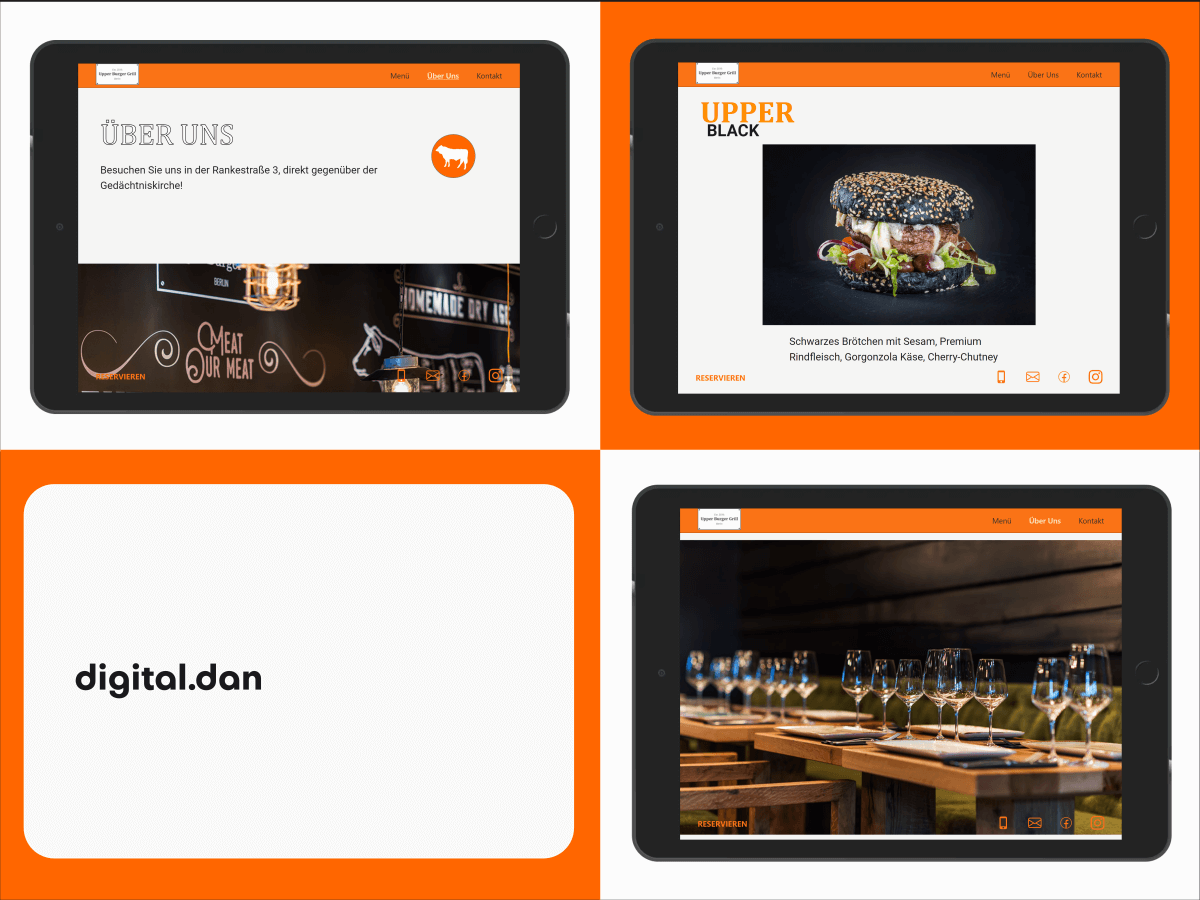
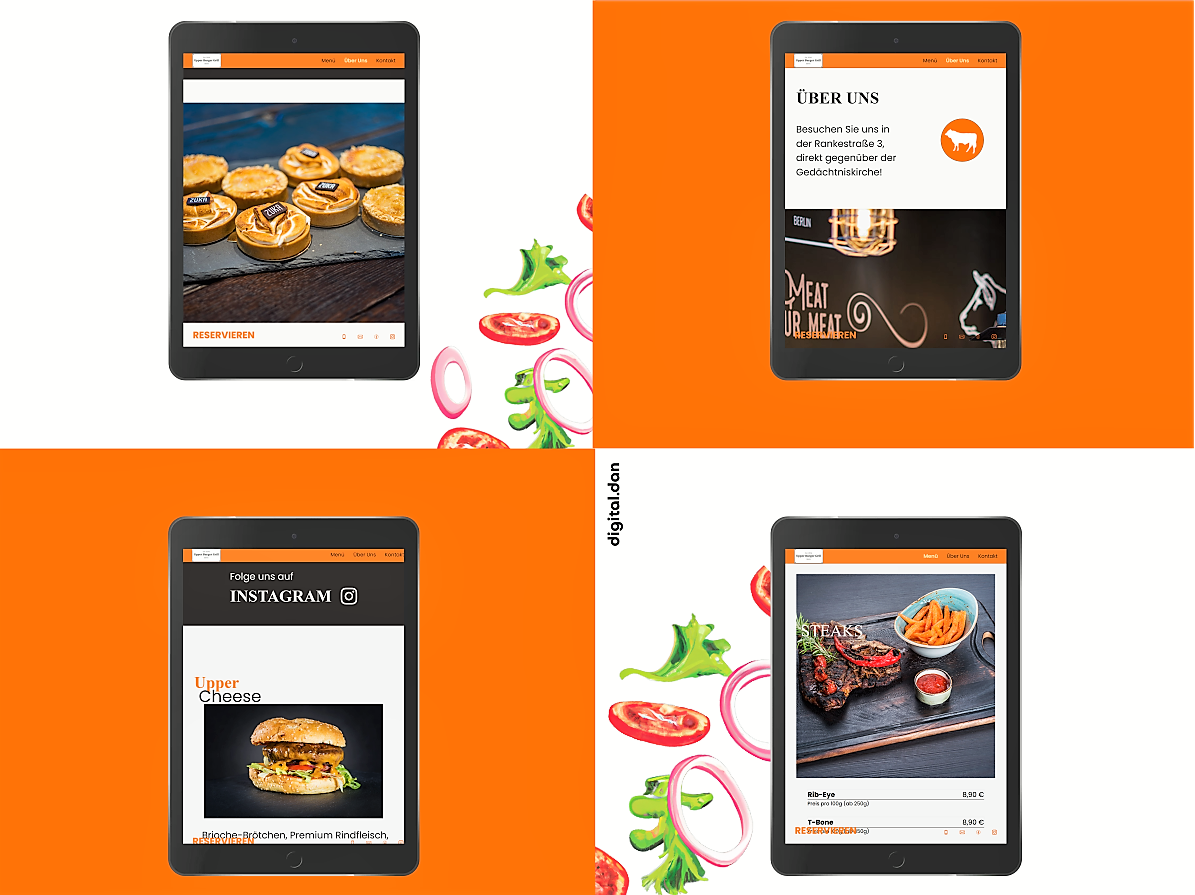
friday content update

diff --git a/components/Services.js b/components/Services.js
@@ -13,9 +13,9 @@ const Services = () => {
                 <Aboutgallery />
 
                 <section className="px-2 my-[5rem] md:my-[10rem] grid grid-cols-1 lg:grid-cols-2 gap-4">
-                    <ul className="title px-[5vh] p-[5vh] landscape:w-[45vw]">
+                    <ul className="subheader font-bold px-[5vh] p-[5vh] landscape:w-[45vw]">
                         <li>About Me</li>
-                        <Borders><div className="paragraph mr-[2rem]">
+                        <Borders><div className="paragraph font-normal mr-[2rem]">
                             <p>Daniel Hubschmann (Germany) <br />Art director,
                                 UI, web and visual designer with over 20 years experience.</p>
                             <br />
@@ -26,9 +26,9 @@ const Services = () => {
                             </p>
                         </div> </Borders></ul>
 
-                    <ul className="title px-[5vh] md:p-[5vh] landscape:w-[45vw] list-disc">
+                    <ul className="subheader font-bold px-[5vh] md:p-[5vh] landscape:w-[45vw] list-disc">
                         Skills/ Tools
-                        <Borders><div className="paragraph">
+                        <Borders><div className="paragraph font-normal">
                             <li>Art direction</li>
                             <li>User interface & web design</li>
                             <li>Graphic & visual design</li>

diff --git a/pages/Cases/Burger.js b/pages/Cases/Burger.js
@@ -53,18 +53,29 @@ const Burger = () => {
                         alt="Upper Burger portfolio redesign"
                     /></Casestudyimage>
                 <Casestudyimage>
+                    <img src='/ubg6.png'
+                        alt="Upper Burger portfolio redesign"
+                    /></Casestudyimage>
+
+
+                <Casestudyimage>
                     <img src='/ubg4.png'
                         alt="Upper Burger portfolio redesign"
                     /></Casestudyimage>
+
+                <Casestudyimage>
+                    <img src='/ubg8.png'
+                        alt="Upper Burger portfolio redesign"
+                    /></Casestudyimage>
+
+
+
                 <Casestudyimage>
                     <img src='/ubg2.png'
                         alt="Upper Burger portfolio redesign"
                     /></Casestudyimage>
 
-                <Casestudyimage>
-                    <img src='/ubg3.png'
-                        alt="Upper Burger portfolio redesign"
-                    /></Casestudyimage>
+
 
                 <Back />
             </main>

diff --git a/components/FrontGallery.js b/components/FrontGallery.js
@@ -4,7 +4,7 @@ import Link from 'next/link'
 
 const FrontGallery = () => {
     const images = [
-        { id: 1, image: 'ubg4.png', slug: '/Cases/Burger' },
+        { id: 1, image: 'ubg6.png', slug: '/Cases/Burger' },
         { id: 2, image: 'moon1.png', slug: '/Cases/Skateboard' },
         { id: 3, image: 'as1.png', slug: '/Cases/Armedshutter' },
         { id: 4, image: 'beau1.png', slug: '/Cases/Beauty' },
@@ -24,7 +24,8 @@ const FrontGallery = () => {
                             <Link href={`${item.slug}`}>
                                 <a>
                                     <div
-                                        className="w-full h-[24rem] lg:h-[36rem] bg-cover bg-center"
+                                        className="w-full h-[24rem] lg:h-[36rem] bg-cover bg-center
+                                        border-[1px] border-stone-800 border-solid"
                                         style={{ backgroundImage: `url(${item.image})` }}
                                     ></div>
                                 </a>

diff --git a/pages/Cases/Social.js b/pages/Cases/Social.js
@@ -1,10 +1,6 @@
 import React from 'react'
-import Link from 'next/link'
 import { motion } from 'framer-motion'
-import { BsArrowUpRight } from 'react-icons/bs'
 import Borders from '@components/Borders'
-import ArrowLinks from '@components/ArrowLinks'
-import Casestudyimage from '@components/Casestudyimage'
 import Back from '@components/Back'
 import Socgallery from '@components/Socgallery'
 
@@ -20,7 +16,7 @@ const Social = () => {
             <main id="Work" className="h-auto flex 
             flex-col justify-center items-center pb-[10rem] lg:pb-[15rem]">
 
-                <section className="lg:w-[80vw] h-auto flex flex-col justify-start gap-12 mx-auto mt-[15vh]">
+                <section className="lg:w-[80vw] h-auto flex flex-col justify-start gap-12 mx-auto my-[15vh]">
 
 
                     <div className="lg:w-[50%]">

diff --git a/components/Hero.js b/components/Hero.js
@@ -25,8 +25,8 @@ const Hero = () => {
 
                         <motion.div animate={wedesignAnimate2} className="font-bold subheader
                         mt-[2rem] mx-auto">
-                            Portfolio Daniel Hubschmann (Germany) <br /> Designer & Art Director
-                            <div>
+                            Portfolio Daniel Hubschmann (Germany) <br /> Art Director & Designer
+                            <div className="mt-[1rem]">
                                 <ScrollArrow /></div>
                         </motion.div>
                     </motion.h1>

diff --git a/pages/Cases/Selfbrand.js b/pages/Cases/Selfbrand.js
@@ -59,6 +59,10 @@ const Selfbrand = () => {
                     <img src='/ddmock1.png'
                         alt="AS portfolio redesign"
                     /></Casestudyimage>
+                <Casestudyimage>
+                    <img src='/ddcard.png'
+                        alt="AS portfolio redesign"
+                    /></Casestudyimage>
 
 
                 <Back />

diff --git a/components/Casestudyimage.js b/components/Casestudyimage.js
@@ -5,7 +5,8 @@ const Casestudyimage = ({ children }) => {
         React.cloneElement(child, { className: 'w-full' }))
 
     return (
-        <div className="lg:w-[70%] h-auto mx-auto my-[10%] lg:my-[5%]">{fullWidth}</div>
+        <div className="lg:w-[70%] h-auto mx-auto my-[10%] lg:my-[5%]
+        border-[1px] border-stone-800 border-solid">{fullWidth}</div>
     )
 }
 

diff --git a/components/Navbar.js b/components/Navbar.js
@@ -4,7 +4,7 @@ import Contacticons from './Contacticons';
 
 const Navbar = () => {
 
-    const [theme, setTheme] = useState('dark');
+    const [theme, setTheme] = useState('light');
     const toggleTheme = () => {
         if (theme === 'dark') {
             setTheme('light');
